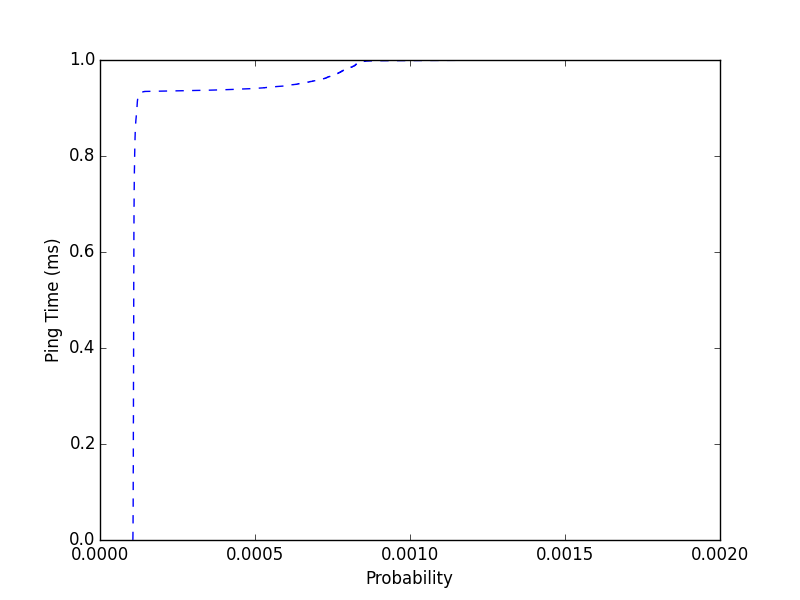
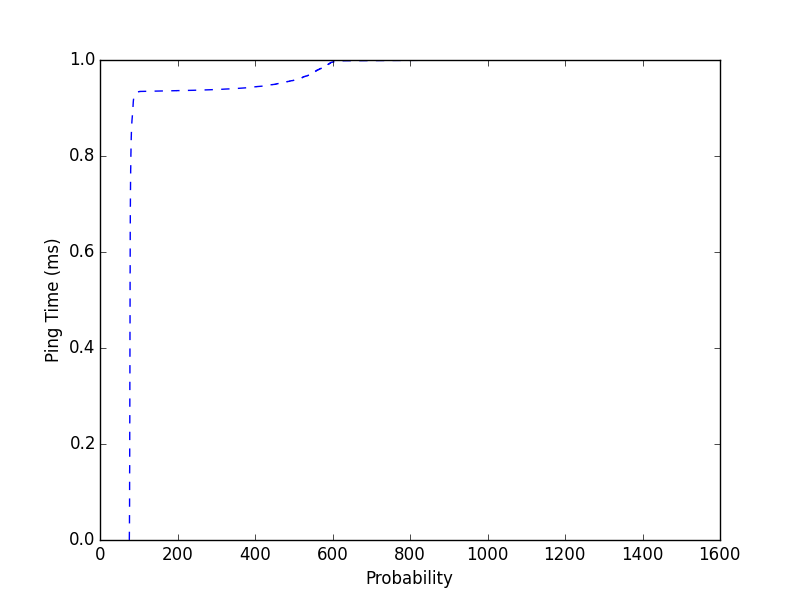
trying to fix x axis

diff --git a/ping_stats.py b/ping_stats.py
@@ -27,7 +27,7 @@ plt.xlabel("Probability")
 plt.ylabel("Ping Time (ms)")
 cdfVals = np.array(cdfVals).astype(np.float)
 sortCdf = np.sort(cdfVals)
-x = sortCdf
+x = np.sort(cdfVals)
 sortCdf /= (step*sortCdf).sum()
 cy = np.cumsum(sortCdf*step)
 
